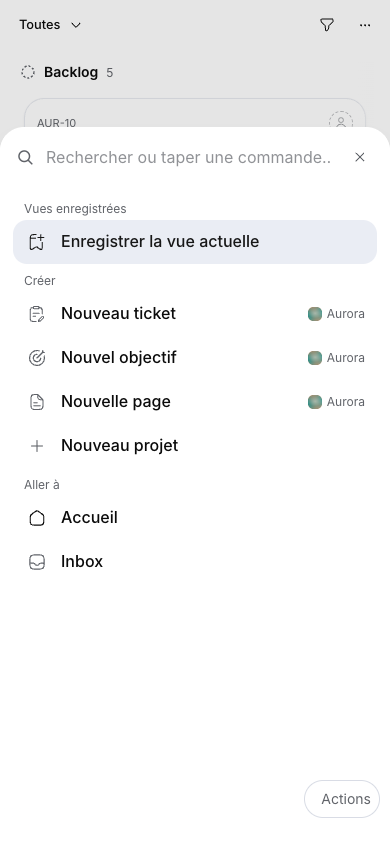
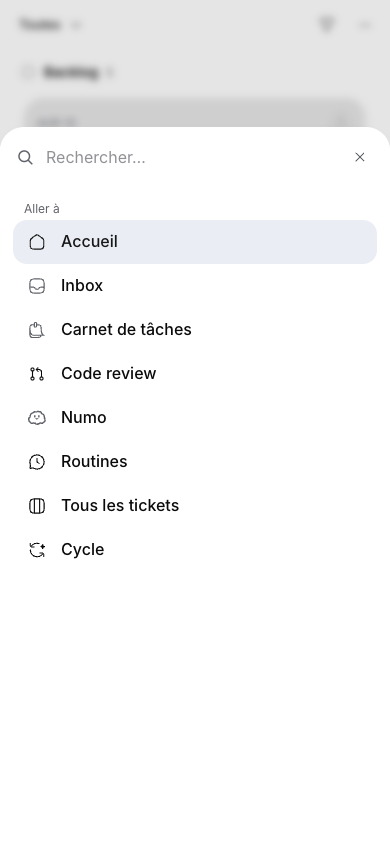
fix: simplify mobile command search and project switching

diff --git a/components/command-palette.tsx b/components/command-palette.tsx
@@ -101,6 +101,7 @@ import type { PaletteStrings } from "@/lib/command-palette/i18n";
 import { createMinddyEntityActionsProvider } from "@/lib/command-palette/registry/providers/MinddyEntityActionsProvider";
 import { paletteDestinationHref } from "@/lib/palette-destination";
 import { useOptionalAppTabSession } from "@/lib/app-tabs-context";
+import { useMobileLayout } from "@/lib/use-mobile-layout";
 import type {
   Issue,
   Member,
@@ -224,6 +225,8 @@ export function CommandPalette({
   onDestinationSelect,
   onPrefetchDestination,
 }: CommandPaletteProps) {
+  const mobile = useMobileLayout() === true;
+  const navigationSearch = destinationOnly || mobile;
   const { track } = useAnalytics();
   const locale = useLocale();
   const tIssueUI = useTranslations("IssueUI");
@@ -385,7 +388,12 @@ export function CommandPalette({
     const mapped = groups.flatMap((g, gi) => {
       const cat = g.key ?? g.heading ?? `group-${gi}`;
       return g.items
-        .filter((it) => !HIDDEN_KEYS.has(it.key) && (!destinationOnly || paletteDestinationHref(it.href) !== null))
+        .filter((it) => {
+          if (HIDDEN_KEYS.has(it.key)) return false;
+          if (!navigationSearch || paletteDestinationHref(it.href) !== null) return true;
+          // Tickets and navigation panels can open in place without a tab destination.
+          return mobile && !destinationOnly && (it.entityType === "issue" || ["go-inbox", "open-notes", "go-agents", "cmd-shortcuts"].includes(it.key));
+        })
         .map((it): CpPaletteItem => {
           const Icon = it.icon;
           const issue = it.entityType === "issue" ? (it.data as PaletteIssue) : null;
@@ -426,7 +434,7 @@ export function CommandPalette({
     });
 
     // “Change theme”: Enter/⌘; opens the select inline (provider "theme")
-    if (!destinationOnly) mapped.push({
+    if (!navigationSearch) mapped.push({
       id: "cmd-theme",
       title: themeLabel,
       keywords: ["theme", "thème", "apparence", "appearance", "dark", "light", "sombre", "clair"],
@@ -465,7 +473,7 @@ export function CommandPalette({
     // per view, when we reopen the views every day. No `execute` → the
     // select opens the inline name field (provider "saved-view-actions"),
     // like the grouped mode fields. The screen is only read upon validation.
-    if (!destinationOnly) mapped.push({
+    if (!navigationSearch) mapped.push({
       id: "cmd-save-view",
       title: tNav("saveCurrentView"),
       keywords: [
@@ -487,7 +495,7 @@ export function CommandPalette({
     });
 
     return mapped;
-  }, [groups, themeLabel, track, savedViews, router, tNav, projects, destinationOnly, onDestinationSelect]);
+  }, [groups, themeLabel, track, savedViews, router, tNav, projects, navigationSearch, mobile, destinationOnly, onDestinationSelect]);
 
   // === Contextual issue actions (⌘; / →) ===
   // Each action opens an inline form with one field: the select opens
@@ -1362,7 +1370,7 @@ export function CommandPalette({
   const paletteItems = showBulk ? bulkItems : items;
   const paletteCategories = showBulk
     ? bulkCategories
-    : destinationOnly
+    : navigationSearch
       ? categories.filter((category) => items.some((item) => item.filterCategory === category.id))
       : categories;
 
@@ -1370,6 +1378,9 @@ export function CommandPalette({
   // destination, bulk mode names the selection it acts on, and the usual
   // generic line applies otherwise (host override of the shell's own string).
   const paletteStrings = useMemo<PaletteStrings | undefined>(() => {
+    if (mobile && !showBulk) {
+      return { "search.placeholder": tNav("searchPlaceholder") };
+    }
     if (showBulk && bulkRequest) {
       return {
         "search.placeholder": tAction("bulkSearchPlaceholder", { count: bulkRequest.count }),
@@ -1379,7 +1390,7 @@ export function CommandPalette({
       return { "search.placeholder": tAction("newTabSearchPlaceholder") };
     }
     return undefined;
-  }, [showBulk, bulkRequest, destinationOnly, tAction]);
+  }, [showBulk, bulkRequest, destinationOnly, mobile, tNav, tAction]);
 
   return (
     <CommandPaletteShell
@@ -1387,7 +1398,7 @@ export function CommandPalette({
       onClose={() => onOpenChange(false)}
       items={paletteItems}
       categories={paletteCategories}
-      providers={destinationOnly ? [] : providers}
+      providers={navigationSearch && !showBulk ? [] : providers}
       locale={locale}
       strings={paletteStrings}
       // The page project is a BOOST of relevance, not a filter: its
@@ -1403,7 +1414,7 @@ export function CommandPalette({
         else toast(message);
       }}
       onHoverPrefetch={handleHoverPrefetch}
-quickAi={destinationOnly ? undefined : {
+      quickAi={navigationSearch ? undefined : {
         icon: <NumoActionIcon className="size-4" />,
         onSelect: (query) => {
           // Filled query → auto-sent to Numo; empty query → the panel just

diff --git a/lib/use-bulk-palette-mode.test.ts b/lib/use-bulk-palette-mode.test.ts
@@ -97,6 +97,29 @@ function paletteMode() {
 }
 
 describe("bulk palette launch lifecycle", () => {
+  it("retains a pending selection when the lazy palette mounts closed", async () => {
+    function PendingLaunch() {
+      const { requestBulkActions } = useBulkActions();
+      const [mounted, setMounted] = useState(false);
+      const [open, setOpen] = useState(false);
+      return createElement("div", null,
+        createElement("button", {
+          "data-action": "launch",
+          onClick: () => {
+            requestBulkActions({ count: 2, members: [], onUpdate: vi.fn(), onAskNumo: vi.fn() });
+            setMounted(true);
+          },
+        }, "Selection actions"),
+        mounted ? createElement(Palette, { open, destinationOnly: false, onOpenChange: setOpen }) : null,
+      );
+    }
+    await act(() => root.render(createElement(StrictMode, null,
+      createElement(BulkActionsProvider, null, createElement(PendingLaunch)),
+    )));
+    await click('[data-action="launch"]');
+    expect(paletteMode()).toBe("bulk");
+  });
+
   it.each(["button", "shortcut"])("opens destinations via %s after closing and cancelling a selection", async (source) => {
     await mount();
     await click('[data-action="select"]');

diff --git a/lib/command-palette/views/SearchView.tsx b/lib/command-palette/views/SearchView.tsx
@@ -403,7 +403,9 @@ export function SearchView({
 
   // Mobile gestures
   const gestures = useMobileGestures({
-    onSwipeLeft: (item) => openActionsForItem(item),
+    onSwipeLeft: (item) => {
+      if (registry.hasActionsForItem(item, viewActionContext)) openActionsForItem(item);
+    },
     enabled: isTouchDevice,
   });
 
@@ -451,14 +453,14 @@ export function SearchView({
   // Touch handlers for an item
   const getTouchHandlers = useCallback(
     (item: PaletteItem) => {
-      if (!isTouchDevice) return {};
+      if (!isTouchDevice || !hasActions(item)) return {};
       return {
         onTouchStart: (e: React.TouchEvent) => gestures.onTouchStart(e, item),
         onTouchMove: gestures.onTouchMove,
         onTouchEnd: gestures.onTouchEnd,
       };
     },
-    [isTouchDevice, gestures]
+    [isTouchDevice, gestures, hasActions]
   );
 
   // ArrowDown expands in compact mode

diff --git a/components/bulk-issue-actions.tsx b/components/bulk-issue-actions.tsx
@@ -90,8 +90,8 @@ export function BulkIssueActions({
   // No `backdrop-blur`: `bg-background/95` already completely hides the background,
   // the blur was not visible and cost a composition layer (MIN-323).
   return (
-    <div className="fixed bottom-5 left-1/2 z-40 flex -translate-x-1/2 items-center gap-1 rounded-full border border-border bg-background/95 p-1.5 shadow-xl">
-      <span className="px-3 text-sm font-medium whitespace-nowrap">
+    <div data-bulk-issue-actions className="fixed bottom-5 max-desktop:bottom-[var(--mobile-nav-clearance)] left-1/2 z-40 flex -translate-x-1/2 items-center gap-1 rounded-full border border-border bg-background/95 p-1.5 shadow-xl max-desktop:max-w-[calc(100%-2rem)]">
+      <span className="min-w-0 px-3 text-sm font-medium whitespace-nowrap max-desktop:truncate max-desktop:px-1">
         {t("selected", { count })}
       </span>
       <Button

diff --git a/components/app-sidebar.tsx b/components/app-sidebar.tsx
@@ -384,6 +384,7 @@ export function ProjectContextRow({
   onProjectSelect?: (project: Project) => void;
 }) {
   const tk = useTranslations("Keyboard");
+  const tNav = useTranslations("Nav");
   const pathname = usePathname();
   const prefetchProject = usePrefetchProject();
   const homeActions = useNavigationContextActions(homeItem.href);
@@ -455,7 +456,7 @@ export function ProjectContextRow({
     {contextRow}
     <Dialog open={pickerOpen} onOpenChange={setPickerOpen}>
       <DialogContent aria-describedby={undefined}>
-        <DialogTitle>{currentProject.name}</DialogTitle>
+        <DialogTitle>{tNav("switchProject")}</DialogTitle>
         <MobileSheetScrollArea>
           {projects.map((project) => <button key={project.id} type="button"
             onClick={() => { setPickerOpen(false); onProjectSelect(project); }}

diff --git a/lib/use-bulk-palette-mode.ts b/lib/use-bulk-palette-mode.ts
@@ -1,6 +1,6 @@
 "use client";
 
-import { useEffect, useState } from "react";
+import { useEffect, useRef, useState } from "react";
 import { useBulkActions } from "@/lib/bulk-actions-context";
 
 /** Handle each selection launch once, even when the palette changes mode. */
@@ -15,9 +15,11 @@ export function useBulkPaletteMode({
 }) {
   const { request, openSignal, consumeOpenSignal } = useBulkActions();
   const [bulkMode, setBulkMode] = useState(false);
+  const wasOpen = useRef(open);
 
   useEffect(() => {
-    if (!open) setBulkMode(false);
+    if (wasOpen.current && !open) setBulkMode(false);
+    wasOpen.current = open;
   }, [open]);
 
   useEffect(() => {

diff --git a/app/globals.css b/app/globals.css
@@ -2962,6 +2962,7 @@ html[data-integrated-caption-controls]:not([data-app-top-bar]) .desktop-drag-ban
   .mobile-assistant-sheet .app-content-header button { min-height: 44px; min-width: 44px; }
   [data-property-row] { min-height: 52px; }
   [data-property-row] :is(button, a[role="button"]) { min-height: 44px; min-width: 44px; }
+  [data-bulk-issue-actions] button { min-height: 44px; min-width: 44px; }
   :is([data-slot="sheet-overlay"], [data-slot="dialog-overlay"], [data-slot="alert-dialog-overlay"]) {
     -webkit-backdrop-filter: blur(4px);
     backdrop-filter: blur(4px);

diff --git a/docs/audits/mobile-2026-10-07.md b/docs/audits/mobile-2026-10-07.md
@@ -261,6 +261,7 @@ Light-mode screenshots (390 × 844):
 - [Board](images/min-636/board.png)
 - [Navigation](images/min-636/navigation.png)
 - [Project selection](images/min-636/navigation-projects.png)
+- [Project switcher](images/min-636/project-picker.png)
 - [Objectives level](images/min-636/navigation-objectives.png)
 - [Wiki navigation](images/min-636/navigation-pages.png)
 - [Pull-request content](images/min-636/pull-request-content.png)
@@ -366,3 +367,37 @@ and compact controls. No horizontal overflow or runtime errors appeared. The
 nine focused gesture, navigation and overlay test files passed 56 tests. Lint,
 scoped TypeScript, owned-English and diff checks passed. Light-mode board,
 ticket, Numo, nested-action, PR and objective captures were refreshed.
+
+Ordinary mobile command search now keeps destinations, ticket results and
+navigation panels, with the existing translated `Nav.searchPlaceholder`.
+Theme changes, view creation and contextual action submenus are omitted;
+saved views still open their destination. Rows without contextual actions no
+longer attach swipe handlers or open an actions popup. Ticket results retain
+their direct panel-opening callback rather than the desktop-tab destination
+filter, which intentionally excludes transient issue panels. Explicit board
+selection actions retain their bulk-edit workflow, and desktop search retains
+its full command set and placeholder.
+
+The project picker uses the translated `Nav.switchProject` heading instead
+of the current project name. Browser checks at 320, 390 and 767px verified
+the short placeholder, absent action rows/submenus, ticket selection and
+project browsing without navigation. Desktop theme selection still opens its
+inline options. Search and project-picker captures were refreshed. The four
+destination, provider, search-locale and bulk-mode regression files passed
+35 tests; lint and scoped TypeScript passed.
+
+Bulk verification exposed a floating selection toolbar underneath the mobile
+navbar. It now sits above the shared navigation clearance with 44px controls
+and a constrained, truncating count on narrow screens. At 320 and 390px its
+bottom is 12px above the navigation controls, with no viewport overflow;
+desktop keeps its original position and 32px buttons. Opening and canceling
+bulk status options worked without submitting changes. Navigation-clearance
+and bulk-lifecycle tests passed all 11 cases; owned-English and diff checks
+passed.
+
+A first-use bulk launch also exposed a Strict Mode effect replay that reset
+selection mode when the lazy palette initially mounted closed. Mode now resets
+only after an actual open-to-closed transition. The new regression failed on
+the original behavior and passed after the correction. All five focused
+search, destination, provider, bulk and navigation-clearance files passed
+42 tests.
